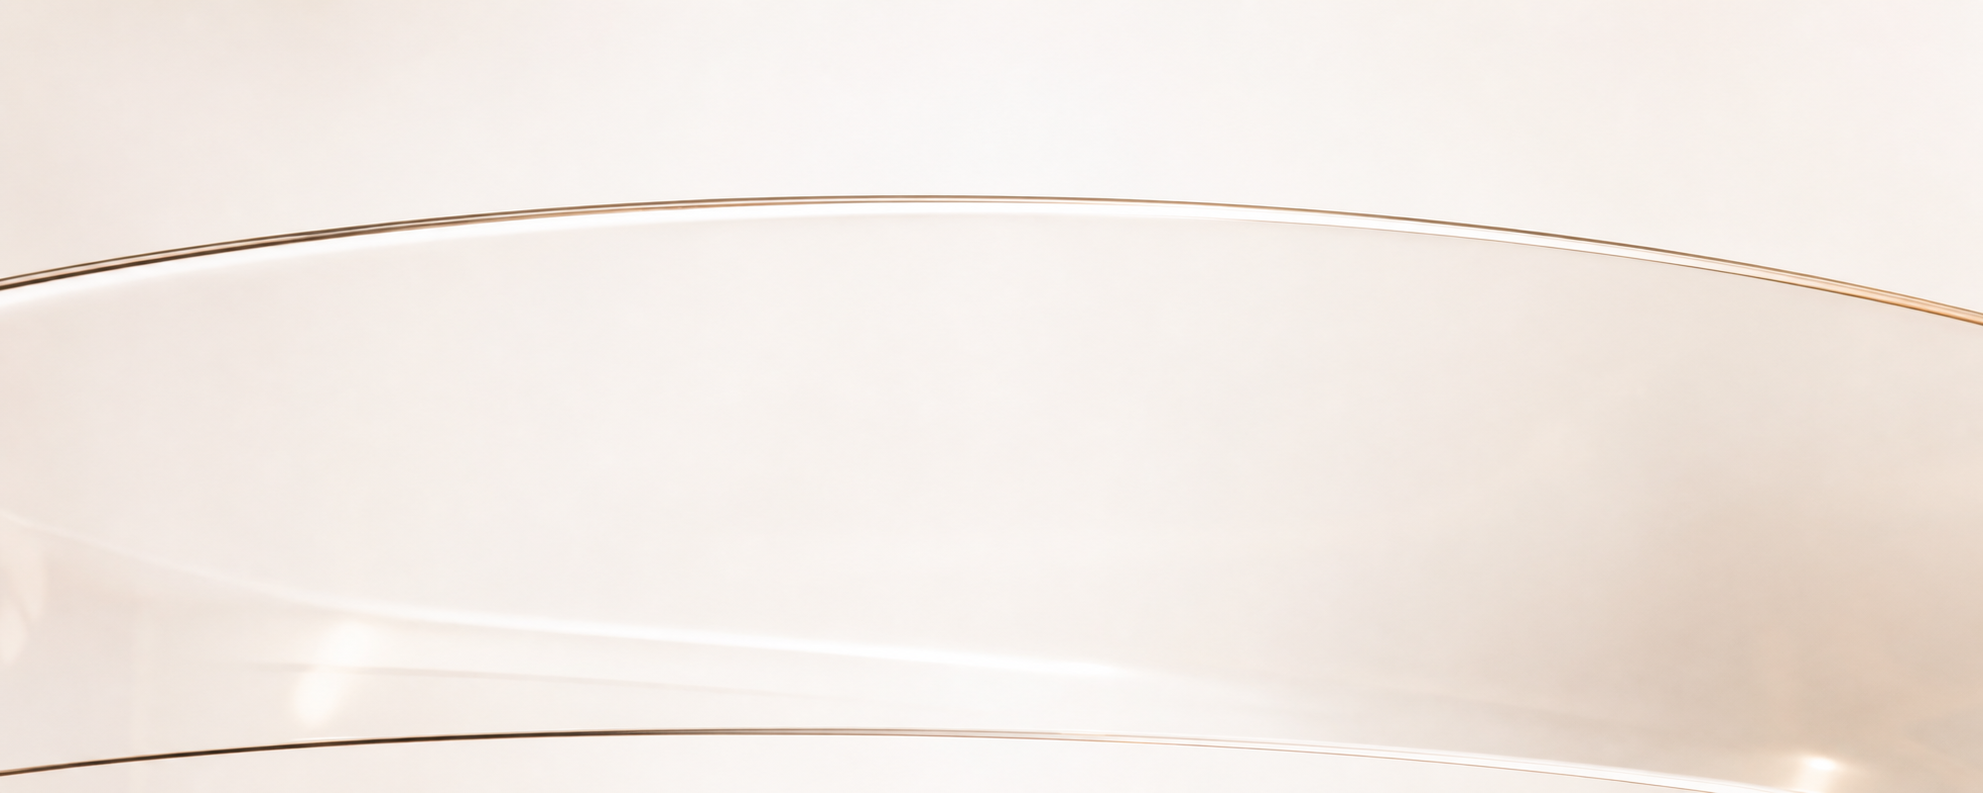
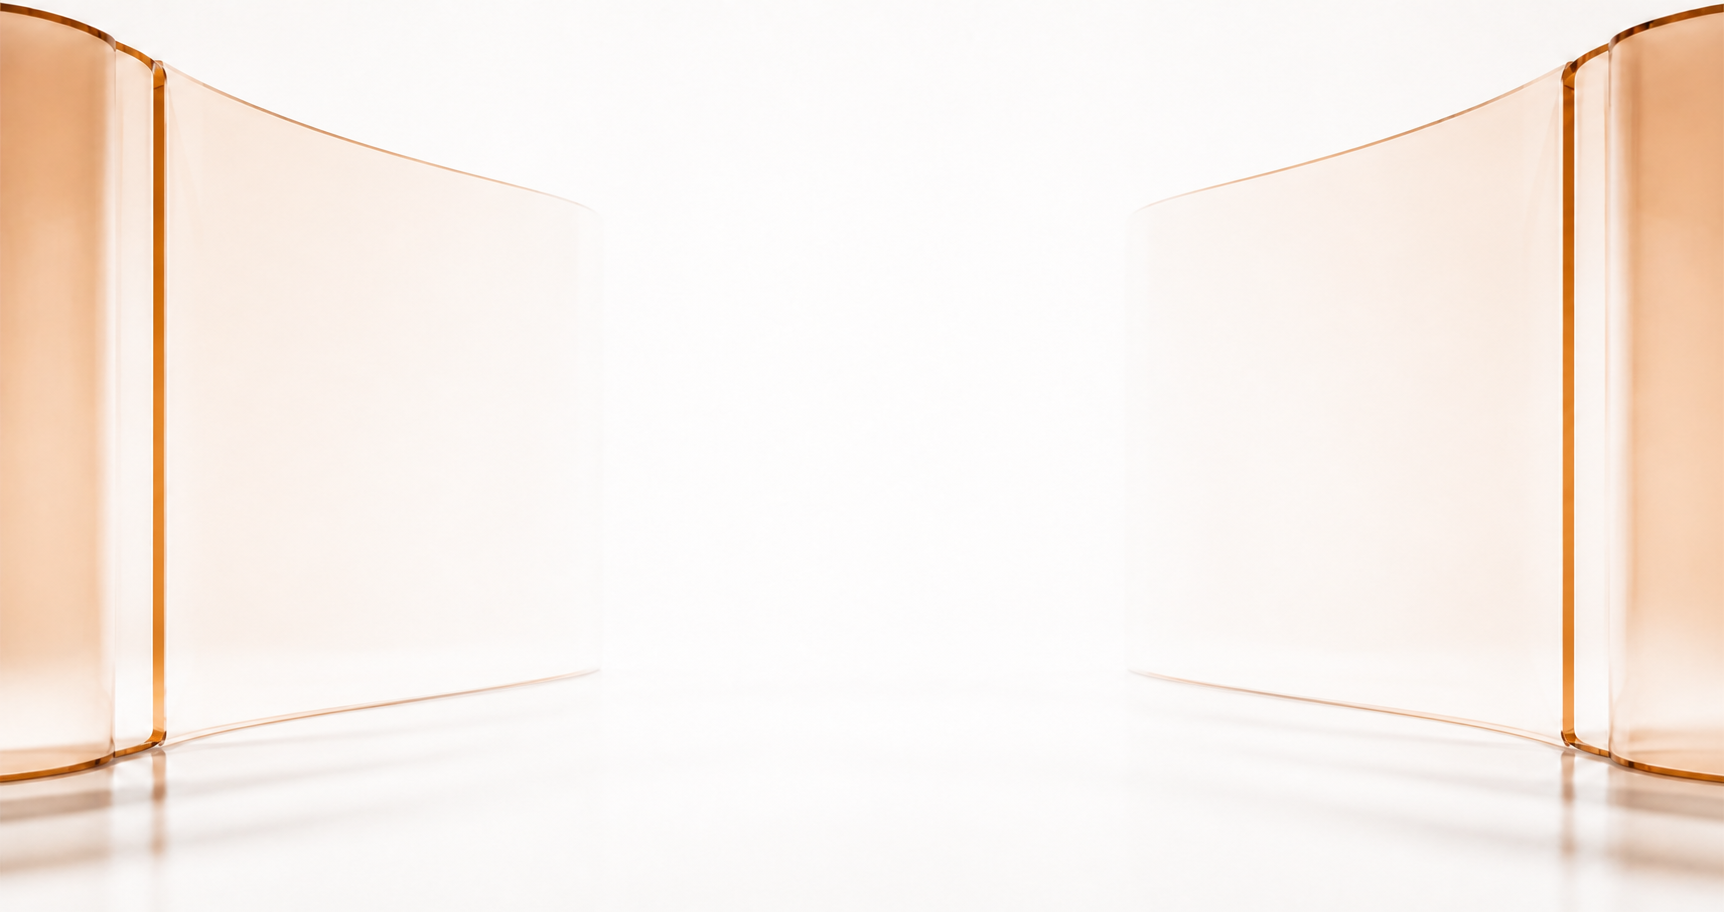
update

diff --git a/components/content-marketing/ServicesCategories.tsx b/components/content-marketing/ServicesCategories.tsx
@@ -254,7 +254,7 @@ export function ServicesCategories() {
         </div>
       </nav>
 
-      <section id="content-marketing" className="scroll-mt-36 border-t-4 border-[#946832] bg-[#f1dfc3]">
+      <section id="content-marketing" className="scroll-mt-36 border-t-4 border-[#946832] bg-[#f1dfc3]/50 backdrop-blur-[2px]">
         <div className="w-full px-5 py-12 sm:px-8 sm:py-16 lg:px-12 lg:py-20 xl:px-16 2xl:px-20">
           <p className="text-sm text-slate-600">01 / Content Marketing</p>
           <div className="mt-5 grid gap-8 md:grid-cols-[.9fr_1.1fr] md:gap-10 lg:gap-16">
@@ -386,7 +386,7 @@ export function ServicesCategories() {
         </div>
       </section>
 
-      <section id="technology-development" className="scroll-mt-36 border-t-4 border-[#4f7059] bg-[#dce8df]">
+      <section id="technology-development" className="scroll-mt-36 border-t-4 border-[#4f7059] bg-[#dce8df]/50 backdrop-blur-[2px]">
         <div className="w-full px-5 py-12 sm:px-8 sm:py-16 lg:px-12 lg:py-20 xl:px-16 2xl:px-20">
           <p className="text-sm text-slate-600">02 / Technology &amp; Development</p>
           <div className="mt-5 grid gap-8 md:grid-cols-[.9fr_1.1fr] md:gap-10 lg:gap-16">
@@ -433,7 +433,7 @@ export function ServicesCategories() {
         </div>
       </section>
 
-      <section id="research-academic" className="scroll-mt-36 border-y-4 border-[#526b84] bg-[#dce5ee]">
+      <section id="research-academic" className="scroll-mt-36 border-y-4 border-[#526b84] bg-[#dce5ee]/50 backdrop-blur-[2px]">
         <div className="w-full px-5 py-12 sm:px-8 sm:py-16 lg:px-12 lg:py-20 xl:px-16 2xl:px-20">
           <p className="text-sm text-slate-600">03 / Research &amp; Academic Work</p>
           <div className="mt-5 grid gap-8 md:grid-cols-[.9fr_1.1fr] md:gap-10 lg:gap-16">

diff --git a/app/layout.tsx b/app/layout.tsx
@@ -17,7 +17,6 @@ export default function RootLayout({
   const isGhostChat = pathname.startsWith("/ghost-chat");
   const isServicesPage = pathname.startsWith("/services");
   const usesPlainBackground =
-    isServicesPage ||
     pathname.startsWith("/admin") ||
     pathname.startsWith("/workhub") ||
     isGhostChat;
